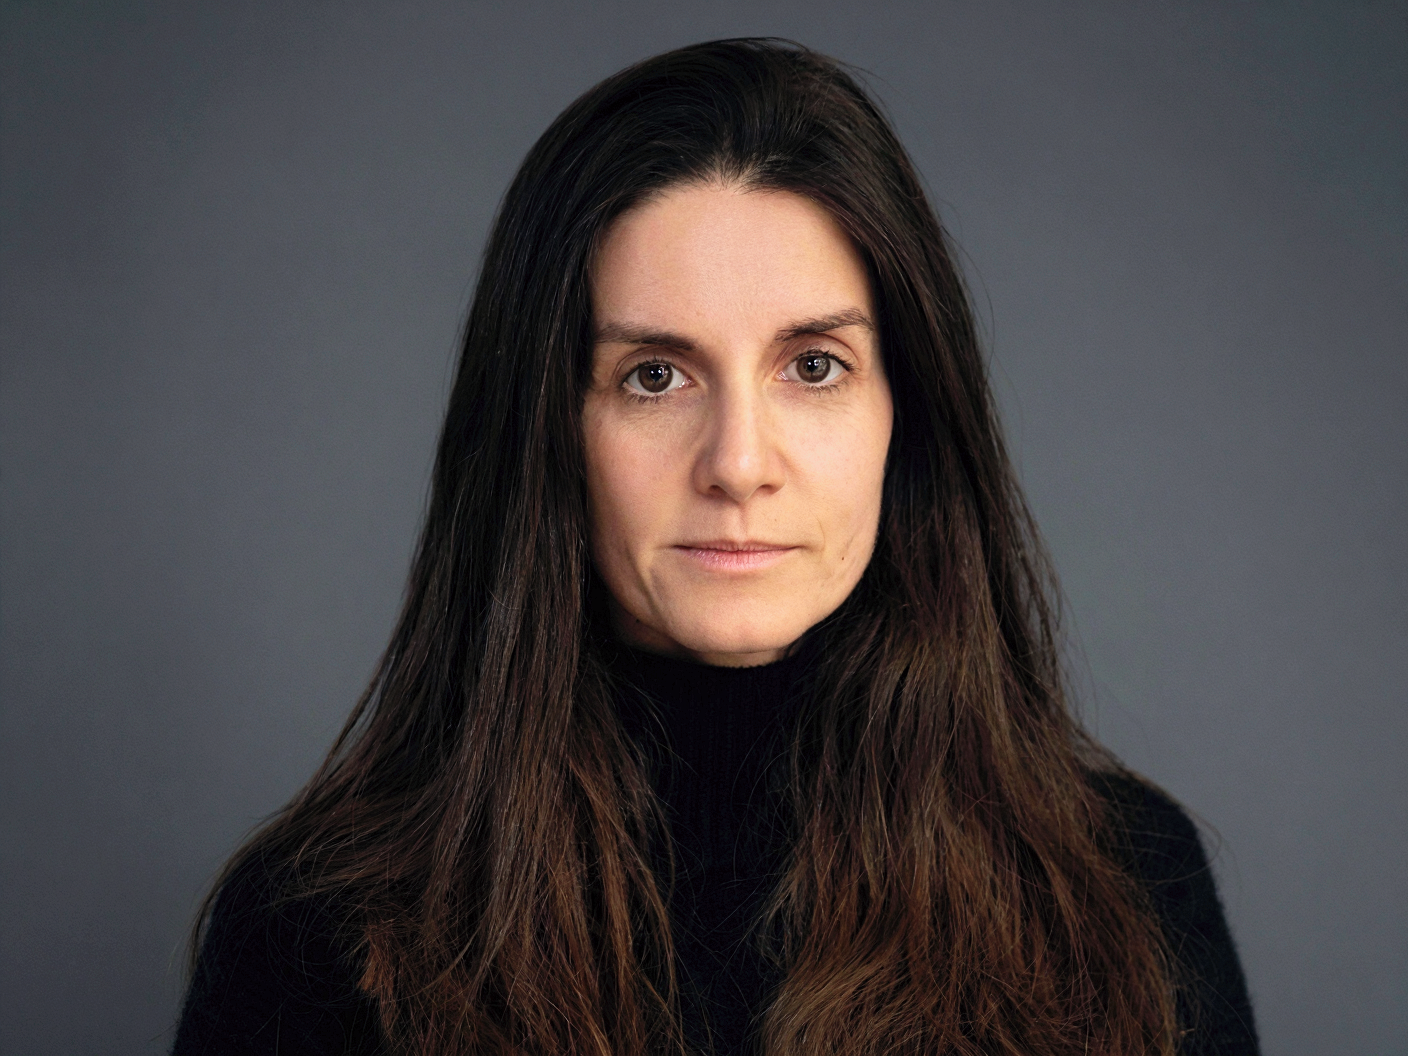
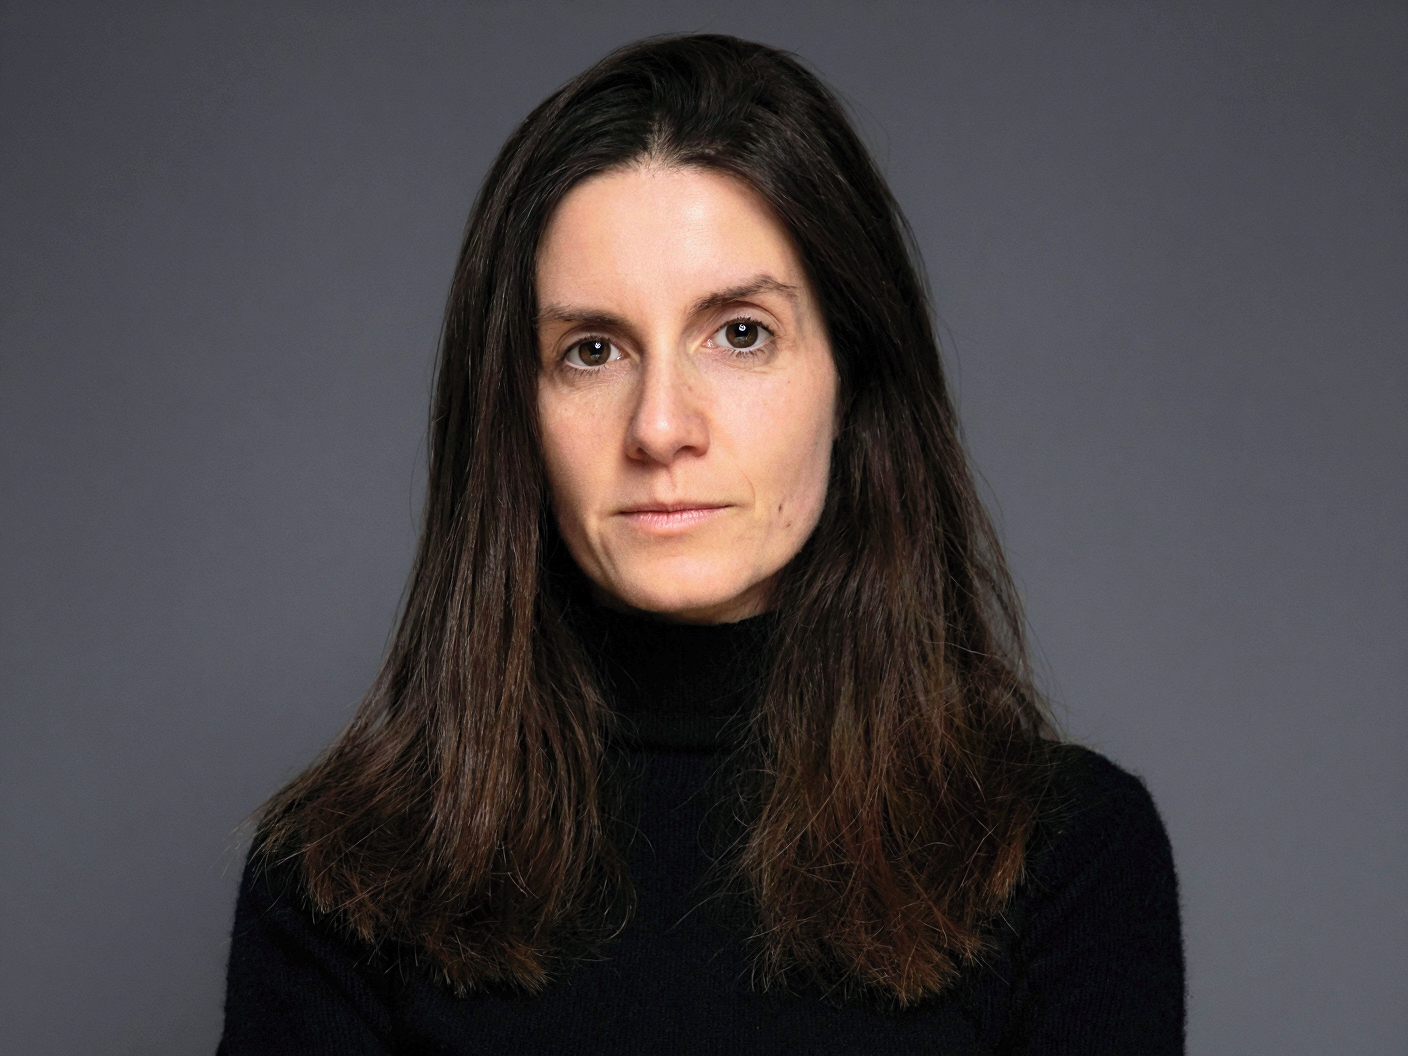
Move Jackie section up, shrink photo, update image and bio text
- Moved Jackie section between 'Så här går det till' and dark section
- Photo column narrowed to 240px (roughly half previous size)
- Swapped to IMG_9363.png (latest photo)
- Updated bio: grundare → medgrundare
- Removed 'av Jackie Cawthra' from hero eyebrow

Changed region(s): [[0.0, 0.0312, 0.9062, 1.0]]

diff --git a/index.html b/index.html
@@ -358,13 +358,13 @@
 
     .jackie-inner {
       display: grid;
-      grid-template-columns: 1fr 1.2fr;
-      gap: 5rem;
+      grid-template-columns: 240px 1fr;
+      gap: 4rem;
       align-items: center;
     }
 
     .jackie-photo {
-      width: 100%;
+      width: 240px;
       aspect-ratio: 3 / 4;
       object-fit: cover;
       object-position: center top;
@@ -420,7 +420,7 @@
 
   <!-- HERO -->
   <section class="hero">
-    <p class="eyebrow">Precisionshälsa · av Jackie Cawthra</p>
+    <p class="eyebrow">Precisionshälsa</p>
     <p class="collab">i samarbete med Sofia von Celsing</p>
     <h1>Din hälsa är din<br><em>viktigaste tillgång.</em></h1>
     <p>Vi stödjer dig i att förstå din biologi och ger dig en personlig plan för att optimera dina energinivåer, sömn och långsiktiga hälsa.</p>
@@ -455,6 +455,19 @@
     </div>
   </section>
 
+  <!-- JACKIE -->
+  <section class="jackie-section">
+    <div class="section-inner jackie-inner">
+      <img src="jackie.png" alt="Jackie Cawthra" class="jackie-photo" />
+      <div>
+        <p class="section-label">Grundare</p>
+        <h2 class="jackie-name">Jackie Cawthra</h2>
+        <p class="jackie-role">Grundare &amp; CEO, Wellth</p>
+        <p class="jackie-bio">Jackie Cawthra är medgrundare av Wellth och en passionerad förespråkare för precisionshälsa. Hon hjälper ambitiösa kvinnor att förstå sin biologi och ta kontrollen över sin hälsa — genom djupgående blodanalyser, personliga hälsoplaner och konkret vägledning anpassad efter varje individs unika förutsättningar och mål.</p>
+      </div>
+    </div>
+  </section>
+
   <!-- FOR YOU -->
   <section class="for-you">
     <div class="section-inner">
@@ -475,19 +488,6 @@
   <section class="cta-section">
     <a class="btn-white" href="https://www.nordicwellth.com/test-packages/longevity-package" target="_blank" rel="noopener">Beställ Longevity Package</a>
     <span class="cta-note-wrap"><p class="cta-note">Du skickas vidare till NordicWellth.com för att slutföra din beställning</p></span>
-  </section>
-
-  <!-- JACKIE -->
-  <section class="jackie-section">
-    <div class="section-inner jackie-inner">
-      <img src="jackie.png" alt="Jackie Cawthra" class="jackie-photo" />
-      <div>
-        <p class="section-label">Grundare</p>
-        <h2 class="jackie-name">Jackie Cawthra</h2>
-        <p class="jackie-role">Grundare &amp; CEO, Wellth</p>
-        <p class="jackie-bio">Jackie Cawthra är grundaren av Wellth och en passionerad förespråkare för precisionshälsa. Hon hjälper ambitiösa kvinnor att förstå sin biologi och ta kontrollen över sin hälsa — genom djupgående blodanalyser, personliga hälsoplaner och konkret vägledning anpassad efter varje individs unika förutsättningar och mål.</p>
-      </div>
-    </div>
   </section>
 
   <!-- FOOTER -->
